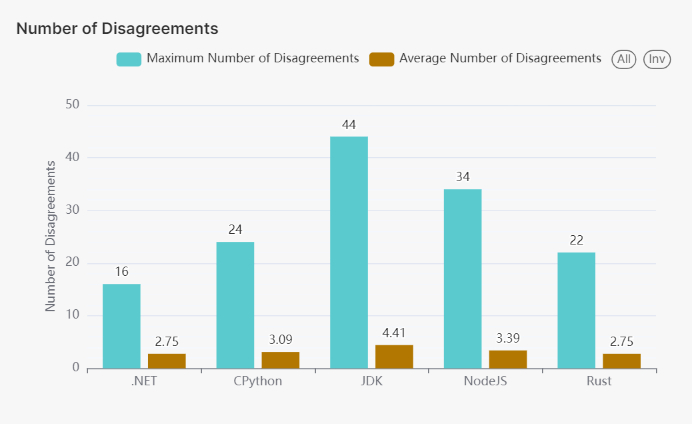
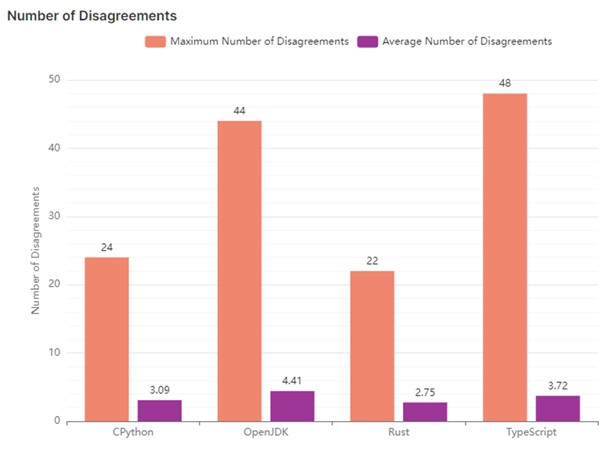
rework based on feedback

diff --git a/_posts/2024-06-24-investigating-code-quality-from-pr-data.md b/_posts/2024-06-24-investigating-code-quality-from-pr-data.md
@@ -32,38 +32,50 @@ Our team built a command line tool, to which we provide a GitHub or GitLab URL. 
 
 These metrics are then saved to a Parquet file, which can be exported to a [ClickHouse](https://clickhouse.com/clickhouse) database and imported into [Apache Superset](https://superset.apache.org/) to create a dashboard which allows us to visualise and explore the data captured.
 
-### Let's see this in action
+To demonstrate our tool, we have used it to analyse 1000 PRs from four different repositories, namely [CPython](https://github.com/python/cpython), [Rust](https://github.com/rust-lang/rust), [OpenJDK](https://github.com/openjdk/jdk), and [TypeScript](https://github.com/microsoft/TypeScript). We've then produced some charts displaying a range of the metrics we produce, with the aim of gaining an insight into the development of these projects.
 
-To demonstrate our tool, we have used it to analyse 1000 PRs from the main repositories for a number of different programming languages, namely [CPython](https://github.com/python/cpython), [Rust](https://github.com/rust-lang/rust), [JDK](https://github.com/openjdk/jdk), [NodeJS](https://github.com/nodejs/node), and [.NET](https://github.com/microsoft/dotnet). We've then produced some charts displaying a range of the metrics we produce, with the aim of gaining an insight into the development of these languages.
+##### PR Creation
 
-![jpg]({{ site.github.url }}/alaws/assets/code-quality/code-quality-analysis-date-dotnet.jpg
-"Number of PRs opened per Month .NET")
-&nbsp;
 ![jpg]({{ site.github.url }}/alaws/assets/code-quality/code-quality-analysis-date-combined.jpg
-"Number of PRs opened per week")
+"Number of PRs opened per month")
 
-Firstly, a note on PR creation dates. Our tool gathers the 1000 most recent PRs from each repository. For CPython and Rust, these were all created between May and June 2024. In the case of NodeJS and Rust, the earliest PRs come from January and March 2024 respectively. In contrast, with .NET, there are PRs from October 2014. Remarkably, there were 257 PRs opened in the CPython in the week commencing 20th May 2024.
+Firstly, a note on PR creation dates. Our tool gathers the 1000 most recent PRs from each repository. For CPython and Rust, these were all created between May and June 2024. In contrast, with TypeScript, the earliest PRs were . Remarkably, in May 2024, there were 602 PRs opened in the CPython repository, and 623 opened in Rust.
+
+![jpg]({{ site.github.url }}/alaws/assets/code-quality/code-quality-analysis-day-pr-opened.jpg
+"Percentage of PRs opened on each day)
+Looking at the percentage of PRs that were opened on each day per repository, we can clearly see that across all the languages, there are fewer opened on weekends. Developers working on OpenJDK must enjoy a good work-life balance, as only 6% of their PRs were opened on weekends.
+
+![jpg]({{ site.github.url }}/alaws/assets/code-quality/code-quality-analysis-time-pr-opened.jpg
+"Percentage of PRs opened per hour)
+
+From this chart, it seems like TypeScript developers are night owls. They open very few PRs before 1 pm and really come alive when when activity on the other repositories starts to trail off (around 4pm). However, when we investigate the [contributors](https://github.com/microsoft/TypeScript/graphs/contributors) further, we can see that the developers are located all over the world, with the majority being based in the US. In our tool, if a timezone isn't returned from the GitHub API, we revert to UTC by default. Therefore, what appears to middle of the night in the UK is probably more likely to be during working day in the US.
 
 ##### PR Duration and Review Time
 
-![jpg]({{ site.github.url }}/alaws/assets/code-quality/code-quality-analysis-pr-duration.jpg
-"PR Duration")
+![jpg]({{ site.github.url }}/alaws/assets/code-quality/code-quality-time-to-first-review-by-day.jpg
+"Time to First Review By Day")
 
-`PR Duration` is a measure of the time elapsed between a PR opened, and it being either merged or closed. However, it may be the case that a PR sits in review for a period of time, before a reviewer first at it. Similarly, once it is approved, there may be a time delay before it's merged. For this reason, we added the additional measures of `Time to First Review` and `Time From First Review to Last Commit`. This is perfectly illustrated by .NET, which has a noticeably high PR duration. However, if you raise a PR, you'd spend the majority of this time waiting for the first review, but would be likely to quickly merge/close your PR after the initial review.
+`PR Duration` is a measure of the time elapsed between a PR opened, and it being either merged or closed. However, it may be the case that a PR sits in review for a period of time, before a reviewer first at it. For this reason, we added the additional measure of `Time to First Review`.
+
+Generally, TypeScript PRs spend much longer awaiting review than the other repositories. However, PRs opened on a Saturday (or possibly late on Friday due to timezones) spend significantly longer waiting for the initial review, presumably until work resumes on Monday morning. In contrast, TypeScript PRs opened on a Friday are reviewed very quickly, so the developers must be keen to clear their open PRs before the end of the working week.
 
 ##### Comment Subject, Tone and Disagreements
 
 ![jpg]({{ site.github.url }}/alaws/assets/code-quality/code-quality-analysis-LLM-pain-points.jpg
 "LLM Pain Points")
-Here, we asked an LLM to count the number of times reviewers picked up on issues that are characteristics of AI-generated code. It's worth mentioning that all the pain points we identified were picked up to some degree in each of these repositories. Not adhering to project standards is the most frequently identified issue across all of the repositories.
-
-![jpg]({{ site.github.url }}/alaws/assets/code-quality/code-quality-analysis-comment-tone.jpg
-"Tone Analysis of Review Comments")
-Here an LLM was asked to take a comment and interpret which of the following tones described the comment: polite, neutral, satisfied, frustrated, excited, impolite, sad. Encouragingly, we see that the reviewers for these repositories are polite in the majority of their comments and are never sad. However, they are frustrated more often than they are excited, particularly in the JDK repository.
+Here, we asked an LLM to count the number of times reviewers picked up on issues that are characteristics of AI-generated code. It's worth mentioning that all the pain points we identified were picked up to some degree in each of these repositories. Not adhering to project standards is the most frequently identified issue across all of the repositories and TypeScript reviewers seem particularly keen to ensure that everyone adheres to the language's best practices.
 
 ![jpg]({{ site.github.url }}/alaws/assets/code-quality/code-quality-analysis-number-of-disagreements.jpg
 "Number of Disagreements in PR Comments")
-To calculate the number of disagreements, comment threads are passed into an LLM, which is then asked to count disagreements within that thread. The total number of disagreements across all comment threads on a PR is then calculated. The JDK repository is home to some keenly debated changes, as there are 3 PRs with over 40 disagreements in their comments. These PRs also have some of the highest numbers of comments, reaching up to 184 on one PR.
+To calculate the number of disagreements, comment threads are passed into an LLM, which is then asked to count disagreements within that thread. The total number of disagreements across all comment threads on a PR is then calculated. The TypeScript repository is home to some keenly debated changes, as there are 5 PRs with over 30 disagreements in their comments. These PRs also have some of the highest numbers of comments, reaching up to 214 on one PR.
+
+![jpg]({{ site.github.url }}/alaws/assets/code-quality/code-quality-analysis-comment-tone.jpg
+"Tone Analysis of Review Comments")
+Here an LLM was asked to take a comment and interpret which of the following tones described the comment: polite, neutral, satisfied, frustrated, excited, impolite, sad. Encouragingly, we see that the reviewers for these repositories are polite in the majority of their comments and are almost never sad. However, they are frustrated more often than they are excited, particularly in the JDK repository.
+
+![jpg]({{ site.github.url }}/alaws/assets/code-quality/code-quality-analysis-tone-per-day.jpg
+"Comment Tone Analysis per Day")
+There are some interesting insights that can be drawn from examining the tone of comments left on the PRs opened on each day. Of all the impolite comments written, the majority are left on code written on a Friday, so the quality of code written must be slip towards the end of the week. In contrast, reviewers ration their excitement on PRs opened on a Monday. Perhaps they are also reviewing on a Monday, and are not overly enthusiastic about the prospect? Or perhaps developers get the more mundane programming tasks over and done with at the start of the week?
 
 ### Conclusion
 
